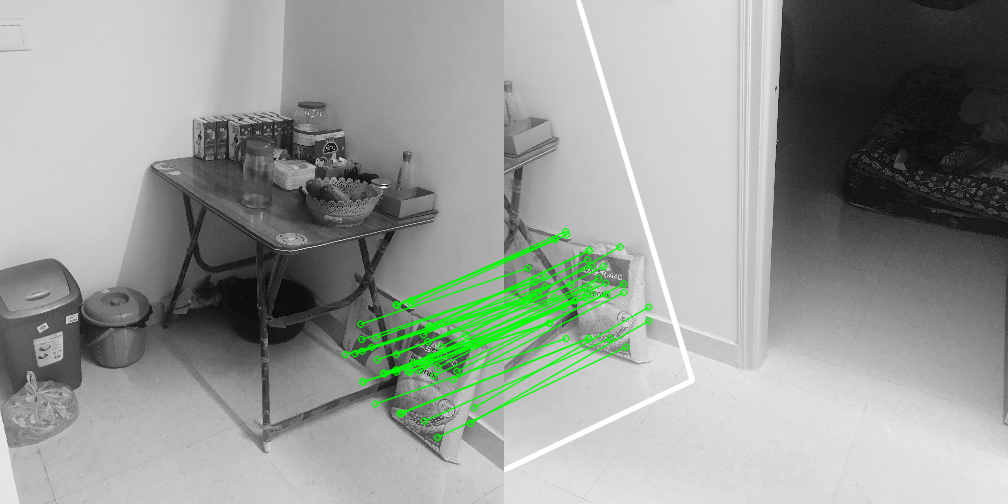
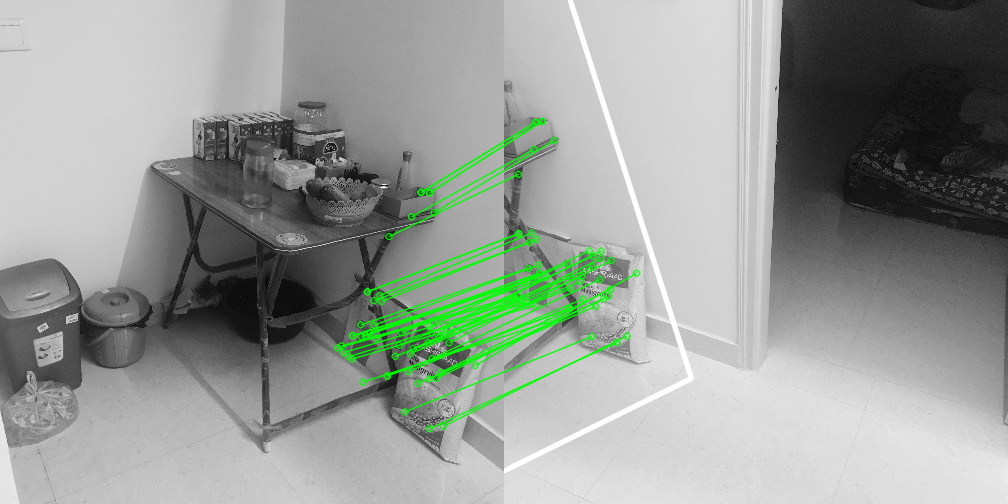
working multi-variant first-draft

diff --git a/image_stitching/stepwise_stitching/core.py b/image_stitching/stepwise_stitching/core.py
@@ -10,18 +10,14 @@ import sys
 import parameters as params
 
 
-def FLANN_matcher(src_kp, dest_kp, src_desc, dest_desc):
+def FLANN_matcher(src_desc, dest_desc):
     '''
     @brief: match descriptor vectors with a FLANN based matcher
     @args[in]:
-        src_kp: keypoints from source image
-        dest_kp: keyppoints from destination image
         src_desc: descriptor from source image
         dest_desc: descriptor from destination image
     @args[out]:
         good_mathes: matches with descriptor distance below Lowe's ration
-        best_match: keypoints in soure  and destination image corresponding to
-                    best matches descriptor
     '''
     # match descriptor vectors
     flann = cv2.FlannBasedMatcher(params.FLANN_INDEX_PARAMS,
@@ -29,27 +25,15 @@ def FLANN_matcher(src_kp, dest_kp, src_desc, dest_desc):
     matches = flann.knnMatch(src_desc, dest_desc, k=params.FLANN_K)
 
     # find good matches as per Lowe's ratio test (0.7)
-    # also find keypoints in soure  and destination image corresponding to
-    # best matches descriptor
     good_matches = []
-    best_match = (0, 0)
-    min_distance = matches[0][0].distance
     for m, n in matches:
         if m.distance < 0.7*n.distance:
             good_matches.append(m)
-            if m.distance < min_distance:
-                best_match = (src_kp[m.queryIdx].pt, dest_kp[m.trainIdx].pt)
-                min_distance = m.distance
     if len(good_matches) < params.MIN_MATCH_COUNT:
         print("Not enough matches are found - {}/{}".format
               (len(good_matches), params.MIN_MATCH_COUNT))
         return (None, None, None, None)
-    # find keypoints for good matches
-    good_src_kp = np.float32(
-        [src_kp[m.queryIdx].pt for m in good_matches]).reshape(-1, 1, 2)
-    good_dest_kp = np.float32(
-        [dest_kp[m.trainIdx].pt for m in good_matches]).reshape(-1, 1, 2)
-    return (good_matches, best_match, good_src_kp, good_dest_kp)
+    return good_matches
 
 
 def matches_visualization(src_image, dest_image, src_kp, dest_kp, good_matches,
@@ -106,11 +90,12 @@ def get_homography_matrix(src_image, dest_image, task_name):
         sys.exit()
     src_kp, src_desc = detector.detectAndCompute(src_image, None)
     dest_kp, dest_desc = detector.detectAndCompute(dest_image, None)
-    matcher_out = FLANN_matcher(src_kp, dest_kp, src_desc, dest_desc)
-    good_matches = matcher_out[0]
-    best_match = matcher_out[1]
-    good_src_kp = matcher_out[2]
-    good_dest_kp = matcher_out[3]
+    good_matches = FLANN_matcher(src_desc, dest_desc)
+    # find keypoints for good matches
+    good_src_kp = np.float32(
+        [src_kp[m.queryIdx].pt for m in good_matches]).reshape(-1, 1, 2)
+    good_dest_kp = np.float32(
+        [dest_kp[m.trainIdx].pt for m in good_matches]).reshape(-1, 1, 2)
     if good_matches is None:
         return (None, None)
 
@@ -119,16 +104,26 @@ def get_homography_matrix(src_image, dest_image, task_name):
                                      cv2.RANSAC, 5.0)
     matches_mask = mask.ravel().tolist()
 
+    # find best match
+    id = matches_mask.index(1)
+    best_match = (tuple(good_src_kp[id][0]), tuple(good_dest_kp[id][0]))
+    min_dist = good_matches[id].distance
+    for idx, good_match in enumerate(good_matches):
+        if (good_match.distance < min_dist) and matches_mask[idx] == 1:
+            best_match = (tuple(good_src_kp[idx][0]),
+                          tuple(good_dest_kp[idx][0]))
+            min_dist = good_match.distance
+
     # matching feature vizualization
     if params.TEST_BOOL:
         matches_visualization(src_image.copy(), dest_image.copy(),
                               src_kp, dest_kp, good_matches,
                               h_mat, matches_mask, task_name)
-    print(best_match)
+
     return (h_mat, best_match)
 
 
-def warp(src_image, dest_image,  H, src_bm_kp, dest_bm_kp, direction, dest_overlay=True):
+def warp(src_image, dest_image,  H, src_bm_kp, dest_bm_kp, direction, task_name):
     '''
     @brief:
     @args[in]:
@@ -137,44 +132,64 @@ def warp(src_image, dest_image,  H, src_bm_kp, dest_bm_kp, direction, dest_overl
     # find the coordinate of best match keypoint from source image in the warped source image
     warped_src_bm_kp_t = np.dot(H, (src_bm_kp + (1,)))
     warped_src_bm_kp = [x/warped_src_bm_kp_t[2] for x in warped_src_bm_kp_t]
+
     # calculate offset based on the warping direction
     if direction == 'r2l':
         stitched_frame_size = (2 * src_image.shape[1], src_image.shape[0])
-        x_offset = dest_bm_kp[1] - warped_src_bm_kp[1]
-        y_offset = dest_bm_kp[0] - warped_src_bm_kp[0]
+        x_offset = dest_bm_kp[0] - warped_src_bm_kp[0]
+        y_offset = dest_bm_kp[1] - warped_src_bm_kp[1]
     elif direction == 'l2r':
         stitched_frame_size = (2*src_image.shape[1], src_image.shape[0])
-        x_offset = dest_bm_kp[0] + src_image.shape[0] - warped_src_bm_kp[0]
+        x_offset = dest_bm_kp[0] + src_image.shape[1] - warped_src_bm_kp[0]
         y_offset = dest_bm_kp[1] - warped_src_bm_kp[1]
     elif direction == 't2b':
         stitched_frame_size = (src_image.shape[1], 2*src_image.shape[0])
-        x_offset = dest_bm_kp[1] - warped_src_bm_kp[1]
-        y_offset = dest_bm_kp[0] + src_image.shape[0] - warped_src_bm_kp[0]
+        x_offset = dest_bm_kp[0] - warped_src_bm_kp[0]
+        y_offset = dest_bm_kp[1] + src_image.shape[0] - warped_src_bm_kp[1]
+    elif direction == 'b2t':
+        stitched_frame_size = (src_image.shape[1], 2*src_image.shape[0])
+        x_offset = dest_bm_kp[0] - warped_src_bm_kp[0]
+        y_offset = dest_bm_kp[1] - warped_src_bm_kp[1]
+    else:
+        print('[ERROR]: Didnt find correct direction for warping task with \
+        task name {}'.format(task_name))
+        sys.exit()
+
     # caculate new homography matrix with offset compensation
     T = np.array([[1, 0, x_offset],
                   [0, 1, y_offset],
                   [0, 0, 1]])
-    # print(T)
-    # print(H)
     H = np.dot(T, H)
-    # print(H)
+
     # warp the source image
     stitched = cv2.warpPerspective(src_image, H, stitched_frame_size)
     # overlay destination image on warped output
-    if dest_overlay:
+    if True:
         if direction == 'r2l':
-            stitched[0:dest_image.shape[0], 0:dest_image.shape[1]] = dest_image
+            # stitched[0:dest_image.shape[0], 0:dest_image.shape[1]] = dest_image
+            for i in range(0, dest_image.shape[0]):
+                for j in range(0, dest_image.shape[1]):
+                    if stitched[i, j] == 0:
+                        stitched[i, j] = dest_image[i, j]
         elif direction == 'l2r':
-            stitched[0:dest_image.shape[0], dest_image.shape[1]:] = dest_image
-        if direction == 't2b':
-            stitched[dest_image.shape[0]:, 0:dest_image.shape[1]] = dest_image
-            # for i in range(dest_image.shape[0], dest_image.shape[0]*2):
-            #     for j in range(dest_image.shape[1]):
-            #         if stitched[i, j] == 0:
-            #             stitched[i, j] = dest_image[i - dest_image.shape[0], j]
-    # resize the final stitiched image and show
-    stitched = cv2.resize(stitched, (504, 504))
-    print(stitched.shape)
+            # stitched[0:dest_image.shape[0], dest_image.shape[1]:] = dest_image
+            for i in range(0, dest_image.shape[0]):
+                for j in range(dest_image.shape[1], dest_image.shape[1]*2):
+                    if stitched[i, j] == 0:
+                        stitched[i, j] = dest_image[i, j - dest_image.shape[1]]
+        elif direction == 't2b':
+            # stitched[dest_image.shape[0]:, 0:dest_image.shape[1]] = dest_image
+            for i in range(dest_image.shape[0], dest_image.shape[0]*2):
+                for j in range(dest_image.shape[1]):
+                    if stitched[i, j] == 0:
+                        stitched[i, j] = dest_image[i - dest_image.shape[0], j]
+        elif direction == 'b2t':
+            # stitched[0:dest_image.shape[0], 0:dest_image.shape[1]] = dest_image
+            for i in range(0, dest_image.shape[0]):
+                for j in range(dest_image.shape[1]):
+                    if stitched[i, j] == 0:
+                        stitched[i, j] = dest_image[i, j]
+
     if params.TEST_BOOL:
         cv2.imshow('stitched', stitched)
         cv2.moveWindow('stitched', 100, 50)
@@ -189,6 +204,6 @@ def stitch(src_image, dest_image, d, task_name):
     # stitch image
     if h_mat is not None:
         image = warp(src_image, dest_image, h_mat,
-                     bm[0], bm[1], direction=d)
+                     bm[0], bm[1], d, task_name)
         cv2.imwrite('output/{}.png'.format(task_name), image)
     return image

diff --git a/image_stitching/stepwise_stitching/main.py b/image_stitching/stepwise_stitching/main.py
@@ -17,9 +17,32 @@ import core
 def main():
     # read images
     images = utils.read_images()
-    image_01 = core.stitch(images[0], images[1], 'l2r', 'image_01')
-    image_23 = core.stitch(images[2], images[3], 'l2r', 'image_23')
-    image_all = core.stitch(image_01, image_23, 't2b', 'image_all')
+
+    # options to stitch upper half
+    # image_01 = core.stitch(images[0], images[1], 'l2r', 'image_01')
+    # image_10 = core.stitch(images[1], images[0], 'r2l', 'image_10')
+    # options to stitch lower half
+    # image_23 = core.stitch(images[2], images[3], 'l2r', 'image_23')
+    # image_32 = core.stitch(images[3], images[2], 'r2l', 'image_32')
+
+    # options to stitch left half
+    # image_02 = core.stitch(images[0], images[2], 't2b', 'image_02')
+    image_20 = core.stitch(images[2], images[0], 'b2t', 'image_20')
+    # options to stitch right half
+    # image_13 = core.stitch(images[1], images[3], 't2b', 'image_13')
+    image_31 = core.stitch(images[3], images[1], 'b2t', 'image_31')
+
+    # options to stich upper and lower half
+    # image_01_23 = core.stitch(image_01, image_23, 't2b', 'full_image_01_23')
+    # image_23_01 = core.stitch(image_23, image_01, 'b2t', 'full_image_23_01')
+    # image_10_32 = core.stitch(image_10, image_32, 't2b', 'full_image_10_32')
+    # image_32_10 = core.stitch(image_32, image_10, 'b2t', 'full_image_32_10')
+
+    # options to stitch left half and right half
+    # image_02_13 = core.stitch(image_02, image_13, 'l2r', 'full_image_02_13')
+    # image_13_02 = core.stitch(image_13, image_02, 'r2l', 'full_image_13_02')
+    image_20_31 = core.stitch(image_20, image_31, 'l2r', 'full_image_20_31')
+    # image_31_20 = core.stitch(image_31, image_20, 'r2l', 'full_image_31_20')
 
 
 if __name__ == '__main__':

diff --git a/image_stitching/stepwise_stitching/parameters.py b/image_stitching/stepwise_stitching/parameters.py
@@ -14,7 +14,7 @@ VIEW_COLS = 2
 
 # ---Feature matching---
 # feature matching algorithm, choose between 'sift' and 'surf'
-FEATURE_MATCHING_ALGORITHM = 'surf'
+FEATURE_MATCHING_ALGORITHM = 'sift'
 # -matching-
 # FLANN matcher parameters
 FLANN_INDEX_PARAMS = dict(algorithm=1, trees=5)
